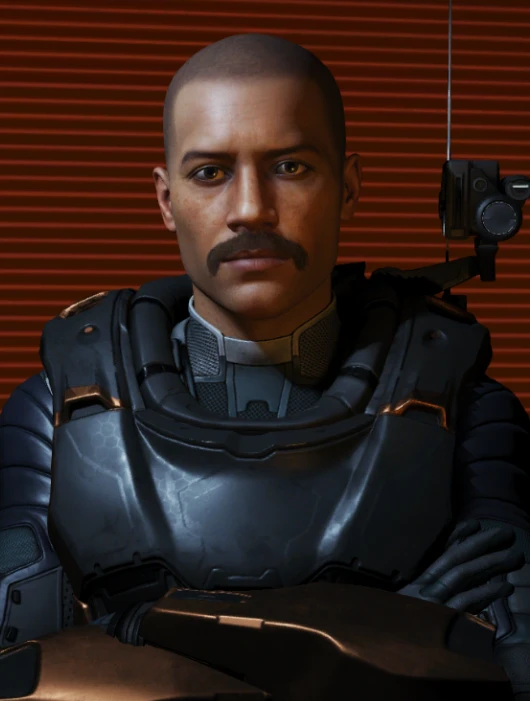
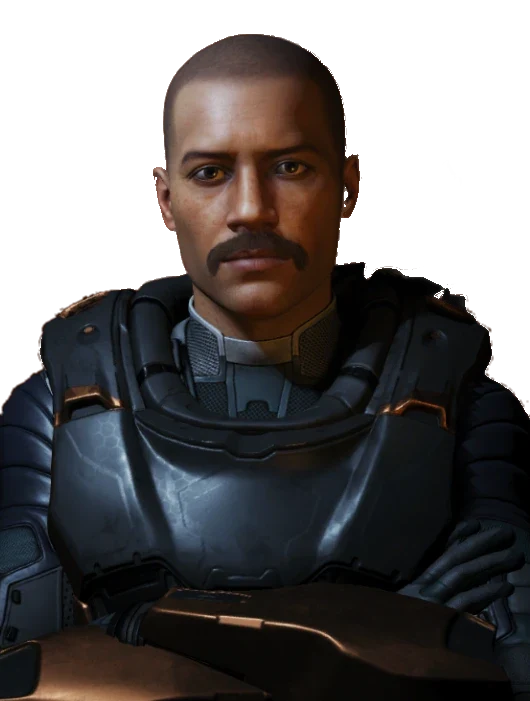
Cut-out portrait, horizontal project scroller, leader-line tooltips
- Portrait: commander cut out of the game background (AI mask plus a colour/region
  pass that keeps the left arm), natural colours over a drawn HUD backdrop
- Projects: cards in a snapping horizontal scroller sized so the next card peeks
  at the edge, fading edge and arrow buttons
- Tech icons: hover/focus draws a leader line to a name readout at the end of the
  group's label row, so it never covers other icons
- Fix page widening on mobile (section flex min-width, scroller containing block)
- Intro: EXPERIENCE button between ABOUT and PROJECTS

diff --git a/src/sections/projects/TechFilter.tsx b/src/sections/projects/TechFilter.tsx
@@ -1,50 +1,106 @@
+import { AnimatePresence, motion } from 'motion/react'
+import { useState, type FocusEvent, type PointerEvent } from 'react'
 import { TechIcon } from '@/components/ui/TechIcon'
 import { TECH_GROUPS } from '@/data/tech'
 import { cn } from '@/lib/cn'
 
 type Props = { active: string | null; onSelect: (id: string | null) => void }
+type Hover = { group: string; x: number; top: number; width: number; name: string }
 
-/** Grouped icon toggles. Pressing one filters the project cards; pressing it again clears the filter. */
+// Vertical layout of a group, in px: label row, then the gap the leader line runs through, then the icon row.
+const LABEL_H = 20
+const GAP = 12
+const LINE_Y = LABEL_H + GAP / 2
+// The leader line turns up into the readout box this far from the group's right edge.
+const ELBOW = 14
+
+/**
+ * Grouped icon toggles. Pressing one filters the project cards; pressing it again clears the filter.
+ * Hover or focus draws a leader line from the icon, through the gap above the row, to a readout box at the right end
+ * of the group's label row, so the name never covers a neighbouring icon.
+ */
 export function TechFilter({ active, onSelect }: Props) {
+  const [hover, setHover] = useState<Hover | null>(null)
+
+  const show = (group: string, name: string) => (e: PointerEvent<HTMLElement> | FocusEvent<HTMLElement>) => {
+    const box = e.currentTarget.closest('[data-group]')?.getBoundingClientRect()
+    const icon = e.currentTarget.getBoundingClientRect()
+    if (box) setHover({ group, name, x: icon.left + icon.width / 2 - box.left, top: icon.top - box.top, width: box.width })
+  }
+  const hide = () => setHover(null)
+
   return (
-    <div className="flex flex-wrap gap-x-6 gap-y-4">
-      {TECH_GROUPS.map((g) => (
-        <div key={g.id} role="group" aria-label={g.label}>
-          <p aria-hidden className="type-label">
-            <span className="text-dim">-={g.brackets[0]}</span> {g.label} <span className="text-dim">{g.brackets[1]}=-</span>
-          </p>
-          <ul className="mt-2 flex flex-wrap gap-1.5">
-            {g.items.map((t) => {
-              const pressed = active === t.id
-              return (
-                <li key={t.id}>
-                  <button
-                    type="button"
-                    aria-pressed={pressed}
-                    aria-label={t.name}
-                    onClick={() => onSelect(pressed ? null : t.id)}
-                    className={cn(
-                      'group relative grid size-10 place-items-center border outline-none transition-colors',
-                      pressed
-                        ? 'border-amber bg-glow text-amber'
-                        : 'border-ed/40 text-ed hover:border-amber hover:bg-glow hover:text-amber focus-visible:border-amber focus-visible:bg-glow focus-visible:text-amber',
-                    )}
+    <div className="flex flex-wrap gap-x-8 gap-y-4">
+      {TECH_GROUPS.map((g) => {
+        const h = hover?.group === g.id ? hover : null
+        const end = h ? h.width - ELBOW : 0
+        return (
+          <div key={g.id} data-group role="group" aria-label={g.label} className="relative min-w-60">
+            <div className="flex items-center justify-between gap-3" style={{ height: LABEL_H }}>
+              <p aria-hidden className="type-label whitespace-nowrap">
+                <span className="text-dim">-={g.brackets[0]}</span> {g.label} <span className="text-dim">{g.brackets[1]}=-</span>
+              </p>
+              <AnimatePresence>
+                {h && (
+                  <motion.span
+                    key={h.name}
+                    aria-hidden
+                    initial={{ opacity: 0, y: 3 }}
+                    animate={{ opacity: 1, y: 0 }}
+                    exit={{ opacity: 0 }}
+                    transition={{ duration: 0.15, delay: 0.08 }}
+                    className="type-caption whitespace-nowrap border border-amber bg-void px-2 py-px text-amber"
                   >
-                    <TechIcon tech={t} />
-                    {/* display:none rather than opacity-0: a transparent tooltip near the screen edge still widens the page. */}
-                    <span
-                      aria-hidden
-                      className="type-caption pointer-events-none absolute bottom-full left-1/2 z-10 mb-1.5 hidden -translate-x-1/2 whitespace-nowrap border border-ed/40 bg-void px-2 py-0.5 text-ink group-hover:block group-focus-visible:block"
+                    {h.name}
+                  </motion.span>
+                )}
+              </AnimatePresence>
+            </div>
+
+            {h && (
+              <div aria-hidden className="pointer-events-none absolute inset-0">
+                <span className="absolute w-px bg-amber" style={{ left: h.x, top: LINE_Y, height: h.top - LINE_Y }} />
+                <motion.span
+                  className="absolute h-px bg-amber"
+                  style={{ left: Math.min(h.x, end), top: LINE_Y, width: Math.abs(end - h.x), originX: h.x <= end ? 0 : 1 }}
+                  initial={{ scaleX: 0 }}
+                  animate={{ scaleX: 1 }}
+                  transition={{ duration: 0.12 }}
+                />
+                <span className="absolute w-px bg-amber" style={{ left: end, top: LABEL_H, height: LINE_Y - LABEL_H }} />
+              </div>
+            )}
+
+            <ul className="flex flex-wrap gap-1.5" style={{ marginTop: GAP }}>
+              {g.items.map((t) => {
+                const pressed = active === t.id
+                return (
+                  <li key={t.id}>
+                    <button
+                      type="button"
+                      aria-pressed={pressed}
+                      aria-label={t.name}
+                      onClick={() => onSelect(pressed ? null : t.id)}
+                      onPointerEnter={show(g.id, t.name)}
+                      onPointerLeave={hide}
+                      onFocus={show(g.id, t.name)}
+                      onBlur={hide}
+                      className={cn(
+                        'grid size-10 place-items-center border outline-none transition-colors',
+                        pressed
+                          ? 'border-amber bg-glow text-amber'
+                          : 'border-ed/40 text-ed hover:border-amber hover:bg-glow hover:text-amber focus-visible:border-amber focus-visible:bg-glow focus-visible:text-amber',
+                      )}
                     >
-                      {t.name}
-                    </span>
-                  </button>
-                </li>
-              )
-            })}
-          </ul>
-        </div>
-      ))}
+                      <TechIcon tech={t} />
+                    </button>
+                  </li>
+                )
+              })}
+            </ul>
+          </div>
+        )
+      })}
     </div>
   )
 }

diff --git a/src/sections/projects/Projects.tsx b/src/sections/projects/Projects.tsx
@@ -1,11 +1,12 @@
-import { AnimatePresence, motion } from 'motion/react'
-import { useMemo, useState } from 'react'
+import { AnimatePresence, motion, useReducedMotion } from 'motion/react'
+import { useCallback, useEffect, useMemo, useRef, useState } from 'react'
 import { Section } from '@/components/layout/Section'
 import { Reveal } from '@/components/motion/Reveal'
 import { Panel } from '@/components/ui/Panel'
 import { TechIcon } from '@/components/ui/TechIcon'
 import { PROJECTS } from '@/data/projects'
 import { TECH_BY_ID } from '@/data/tech'
+import { cn } from '@/lib/cn'
 import { TechFilter } from './TechFilter'
 
 // Public projects are numbered on their own; the work card is labelled separately.
@@ -15,6 +16,29 @@ export function Projects() {
   const [filter, setFilter] = useState<string | null>(null)
   const shown = useMemo(() => (filter ? PROJECTS.filter((p) => p.stack.includes(filter)) : PROJECTS), [filter])
   const active = filter ? TECH_BY_ID.get(filter) : undefined
+  const reduce = useReducedMotion()
+  const track = useRef<HTMLUListElement>(null)
+  const [edges, setEdges] = useState({ prev: false, next: false })
+
+  const measure = useCallback(() => {
+    const el = track.current
+    if (el) setEdges({ prev: el.scrollLeft > 4, next: el.scrollLeft + el.clientWidth < el.scrollWidth - 4 })
+  }, [])
+  useEffect(() => {
+    const el = track.current
+    if (!el) return
+    measure()
+    const ro = new ResizeObserver(measure)
+    ro.observe(el)
+    return () => ro.disconnect()
+  }, [measure, shown])
+
+  // One card per press; the first child's width plus the gap is a card step.
+  const step = (dir: 1 | -1) => {
+    const el = track.current
+    const card = el?.firstElementChild as HTMLElement | null
+    if (el && card) el.scrollBy({ left: dir * (card.offsetWidth + 20), behavior: reduce ? 'auto' : 'smooth' })
+  }
 
   return (
     <Section id="projects">
@@ -34,14 +58,40 @@ export function Projects() {
             </button>
           </>
         )}
+        <div className="ml-auto flex gap-1.5">
+          {([[-1, '◀', 'Scroll projects left', edges.prev], [1, '▶', 'Scroll projects right', edges.next]] as const).map(([dir, glyph, label, enabled]) => (
+            <button
+              key={dir}
+              type="button"
+              aria-label={label}
+              disabled={!enabled}
+              onClick={() => step(dir)}
+              className="type-caption grid size-8 place-items-center border border-ed/40 text-ed transition-colors hover:border-amber hover:bg-glow hover:text-amber disabled:cursor-default disabled:border-dim/30 disabled:bg-transparent disabled:text-dim"
+            >
+              {glyph}
+            </button>
+          ))}
+        </div>
       </div>
 
-      <motion.ul layout className="mt-3 grid gap-5 sm:grid-cols-2 lg:grid-cols-4">
+      {/* Cards are sized so the next one is always cut at the edge (about 3.4 visible on desktop), and the
+          edge fades while more remain: both tell the visitor the row scrolls sideways. `relative` makes it the
+          containing block, so absolutely positioned descendants (sr-only labels) are clipped instead of widening the page. */}
+      <motion.ul
+        ref={track}
+        layout
+        onScroll={measure}
+        className={cn(
+          'relative mt-3 flex snap-x snap-mandatory gap-5 overflow-x-auto pb-3 [scrollbar-color:var(--color-ed)_transparent] [scrollbar-width:thin]',
+          edges.next && '[mask-image:linear-gradient(to_right,#000_85%,transparent)]',
+        )}
+      >
         <AnimatePresence mode="popLayout" initial={false}>
           {shown.map((p) => (
             <motion.li
               key={p.id}
               layout
+              className="w-[82%] shrink-0 snap-start sm:w-[calc((100%-1.25rem)/1.6)] lg:w-[calc((100%-3.75rem)/3.4)]"
               initial={{ opacity: 0, scale: 0.96 }}
               animate={{ opacity: 1, scale: 1 }}
               exit={{ opacity: 0, scale: 0.96 }}

diff --git a/src/components/ui/PhotoPanel.tsx b/src/components/ui/PhotoPanel.tsx
@@ -4,31 +4,35 @@ import { Panel } from '@/components/ui/Panel'
 type Props = { src: string; alt: string; label: string; meta?: string }
 
 /**
- * Portrait in a HUD panel: shown as an orange monochrome scan (grayscale photo under a colour-blend layer) that
- * fades to the real photo on hover. Falls back to a NO SIGNAL readout if the image fails to load.
+ * Portrait in a HUD panel. Expects a cut-out image (transparent background) and draws the backdrop itself: orange
+ * glow, HUD grid, a slow reticle and scanlines sit behind the subject so its own colours stay untouched.
+ * Falls back to a NO SIGNAL readout if the image fails to load.
  */
 export function PhotoPanel({ src, alt, label, meta }: Props) {
   const [failed, setFailed] = useState(false)
   return (
     <Panel label={label} meta={meta}>
       <div className="group relative aspect-[4/5] overflow-hidden bg-void">
+        <div aria-hidden className="absolute inset-0 bg-[radial-gradient(ellipse_65%_50%_at_50%_35%,rgb(255_113_0/0.3),transparent_70%)] opacity-80 transition-opacity duration-500 group-hover:opacity-100" />
+        <div aria-hidden className="hud-grid absolute inset-0" />
+        <div aria-hidden className="absolute left-1/2 top-[33%] aspect-square w-[78%] -translate-x-1/2 -translate-y-1/2 rounded-full border border-ed/20" />
+        <div aria-hidden className="absolute left-1/2 top-[33%] aspect-square w-[64%] -translate-x-1/2 -translate-y-1/2 rounded-full border border-dashed border-ed/35 motion-safe:animate-[spin_60s_linear_infinite]" />
+        <div aria-hidden className="scanlines absolute inset-0" />
         {failed ? (
-          <p className="type-caption grid h-full place-items-center">No signal</p>
+          <p className="type-caption relative grid h-full place-items-center">No signal</p>
         ) : (
-          <>
-            <img
-              src={src}
-              alt={alt}
-              width={800}
-              height={1000}
-              decoding="async"
-              onError={() => setFailed(true)}
-              className="h-full w-full object-cover grayscale contrast-110 transition-[filter] duration-500 group-hover:grayscale-0 group-hover:contrast-100"
-            />
-            <div aria-hidden className="absolute inset-0 bg-ed mix-blend-color transition-opacity duration-500 group-hover:opacity-0" />
-            <div aria-hidden className="scanlines pointer-events-none absolute inset-0 opacity-60 transition-opacity duration-500 group-hover:opacity-20" />
-          </>
+          <img
+            src={src}
+            alt={alt}
+            width={530}
+            height={701}
+            decoding="async"
+            onError={() => setFailed(true)}
+            className="relative h-full w-full object-cover object-top drop-shadow-[0_0_16px_rgb(255_113_0/0.25)] transition-transform duration-500 group-hover:scale-[1.02]"
+          />
         )}
+        {/* Fades the cropped bottom edge of the subject into the panel. */}
+        <div aria-hidden className="absolute inset-x-0 bottom-0 h-1/5 bg-gradient-to-t from-panel to-transparent" />
         <Corners />
       </div>
     </Panel>

diff --git a/src/components/layout/Section.tsx b/src/components/layout/Section.tsx
@@ -26,7 +26,8 @@ export function Section({ id, children, className }: Props) {
         className,
       )}
     >
-      <div className="mx-auto w-full max-w-6xl">
+      {/* min-w-0: as a flex item this would otherwise grow to fit wide content such as the project scroller. */}
+      <div className="mx-auto w-full min-w-0 max-w-6xl">
         <Reveal><Eyebrow>{transmission(i + 1)} / {title}</Eyebrow></Reveal>
         {children}
       </div>

diff --git a/src/sections/intro/Intro.tsx b/src/sections/intro/Intro.tsx
@@ -37,6 +37,7 @@ export function Intro() {
           </Reveal>
           <Reveal delay={0.3} className="mt-8 flex flex-wrap gap-3">
             <HudButton href="#about">ABOUT</HudButton>
+            <HudButton href="#experience">EXPERIENCE</HudButton>
             <HudButton href="#projects">PROJECTS</HudButton>
           </Reveal>
         </div>
